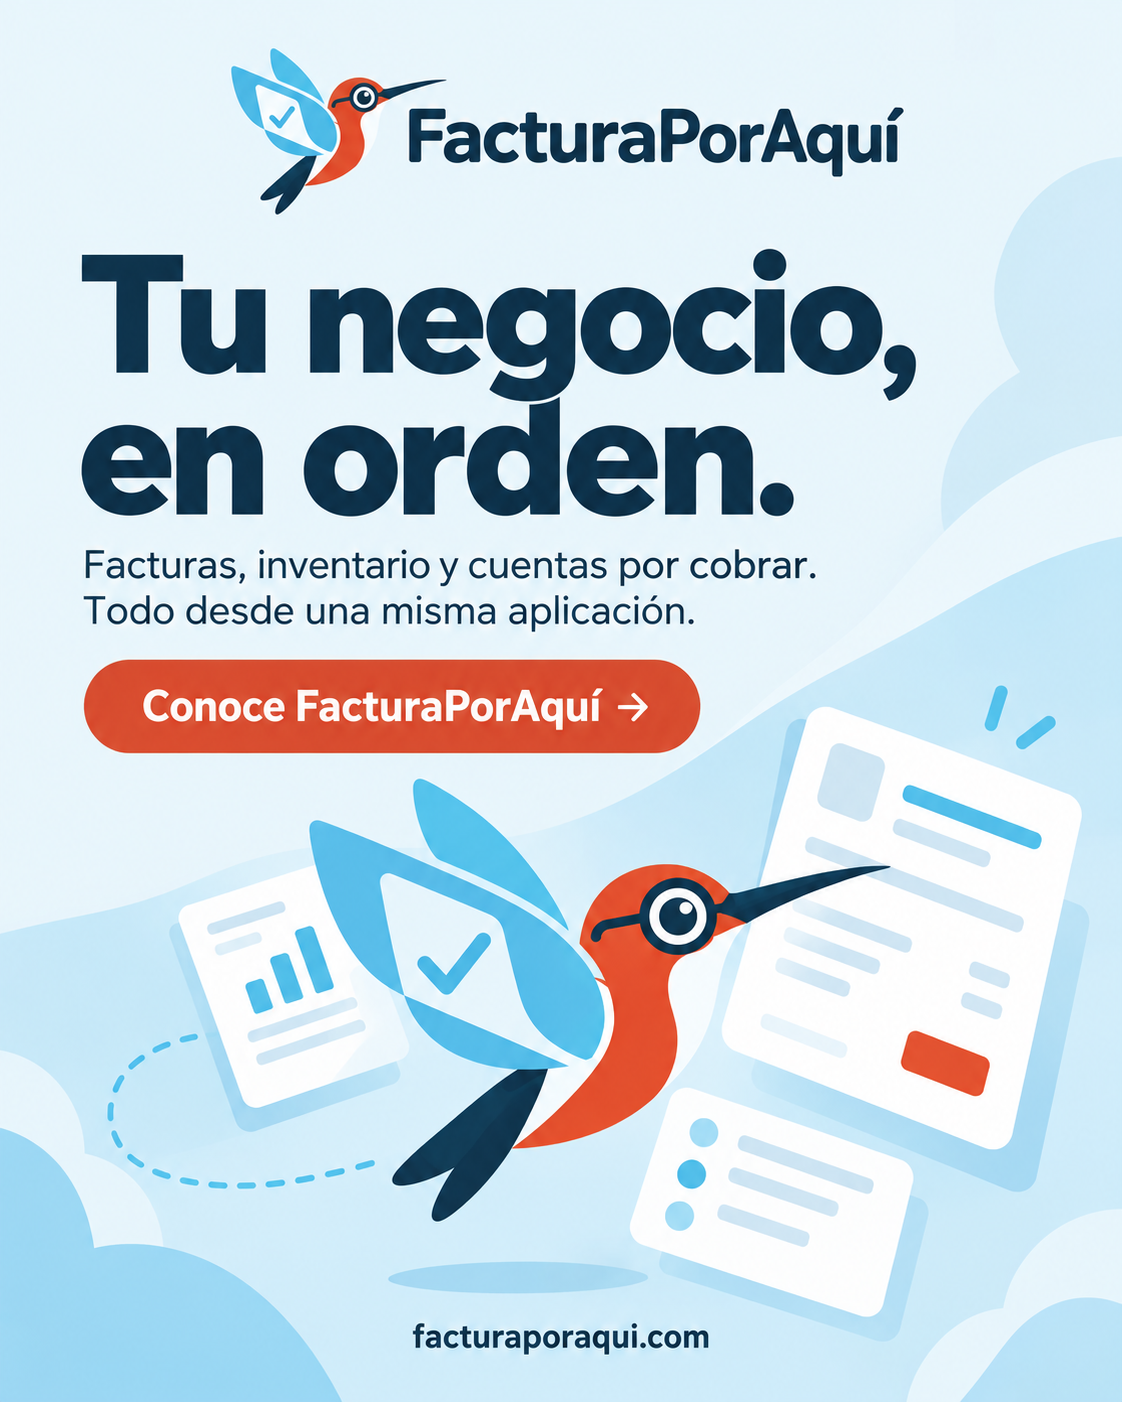
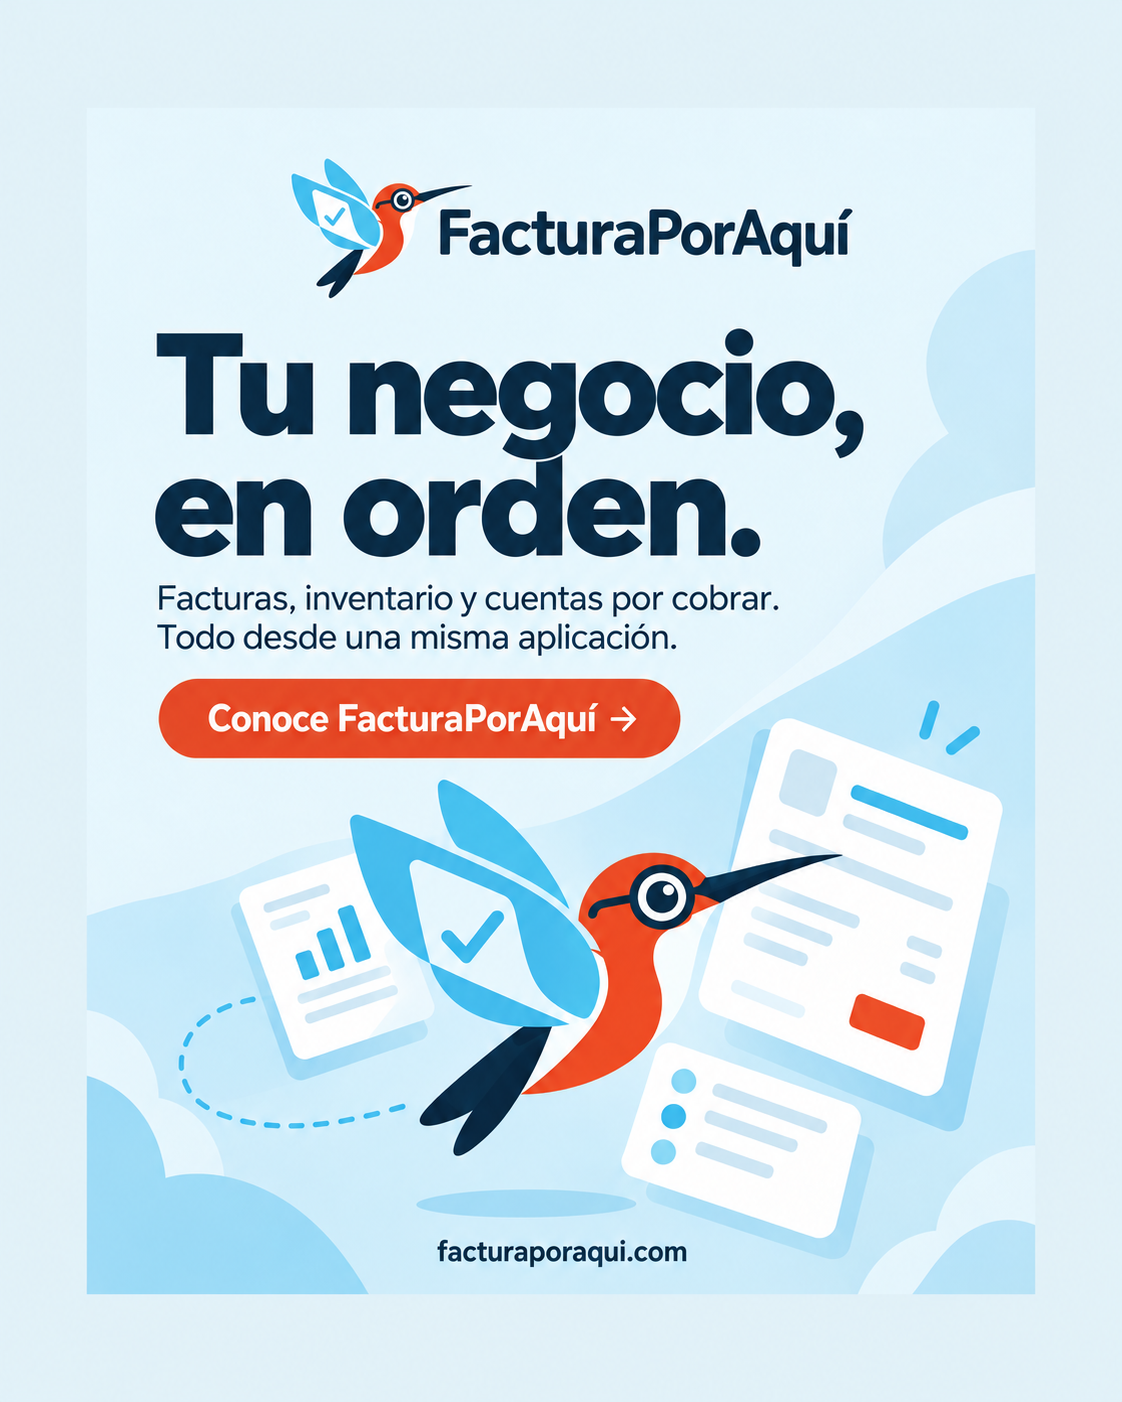
Add safe margins to all social campaign images and grid preview

diff --git a/entregas/facturaporaqui/redes/campana-01/GALERIA.html b/entregas/facturaporaqui/redes/campana-01/GALERIA.html
@@ -1,1 +1,1 @@
-<!doctype html><html lang="es"><meta charset="utf-8"><meta name="viewport" content="width=device-width,initial-scale=1"><title>FacturaPorAquí · Primera campaña</title><style>body{margin:0;background:#e5f1f6;color:#163b50;font:17px/1.5 system-ui,sans-serif}main{max-width:1240px;margin:auto;padding:36px 24px}h1{font-size:38px;margin:8px 0}h2{font-size:28px}p{max-width:800px}.pair{display:grid;grid-template-columns:1fr 1fr;gap:24px;margin:24px 0;align-items:start}article{background:white;border-radius:16px;padding:18px;min-width:0}article img{width:100%;height:auto;display:block;border-radius:10px}a{color:#a8381f;font-weight:650}h3{font-size:19px;margin:8px 0}small{display:block}nav{display:flex;gap:24px;flex-wrap:wrap}@media(max-width:650px){.pair{grid-template-columns:1fr}}</style><main><header><small>FacturaPorAquí · Tu negocio, en orden.</small><h1>Primera campaña en redes</h1><p>10 posts para Facebook e Instagram y 10 historias. Abre una imagen para verla completa o guardarla. Los textos y el orden sugerido están en el documento adjunto. No se ha publicado nada.</p><nav><a href="#posts">Posts</a><a href="#historias">Historias</a><a href="TEXTOS-Y-PUBLICACION.md">Textos y publicación</a></nav></header><h2 id="posts">10 posts · formato 4:5</h2><section class="pair" id="posts-1"><article><h3>01 · Tu negocio, en orden.</h3><a href="posts/post-01.png"><img src="posts/post-01.png" alt="Post 1: Tu negocio, en orden."></a></article><article><h3>02 · ¿Cuánto tiempo pierdes buscando?</h3><a href="posts/post-02.png"><img src="posts/post-02.png" alt="Post 2: ¿Cuánto tiempo pierdes buscando?"></a></article></section><section class="pair" id="posts-3"><article><h3>03 · Tu facturación empieza por aquí.</h3><a href="posts/post-03.png"><img src="posts/post-03.png" alt="Post 3: Tu facturación empieza por aquí."></a></article><article><h3>04 · 1000 documentos. Un año de tranquilidad.</h3><a href="posts/post-04.png"><img src="posts/post-04.png" alt="Post 4: 1000 documentos. Un año de tranquilidad."></a></article></section><section class="pair" id="posts-5"><article><h3>05 · Más movimiento. Sin límite de documentos.</h3><a href="posts/post-05.png"><img src="posts/post-05.png" alt="Post 5: Más movimiento. Sin límite de documentos."></a></article><article><h3>06 · Factura y nota de crédito: cada una con su número.</h3><a href="posts/post-06.png"><img src="posts/post-06.png" alt="Post 6: Factura y nota de crédito: cada una con su número."></a></article></section><section class="pair" id="posts-7"><article><h3>07 · Varias empresas. Una cuenta.</h3><a href="posts/post-07.png"><img src="posts/post-07.png" alt="Post 7: Varias empresas. Una cuenta."></a></article><article><h3>08 · Lo que vendes. Lo que tienes. Lo que te deben.</h3><a href="posts/post-08.png"><img src="posts/post-08.png" alt="Post 8: Lo que vendes. Lo que tienes. Lo que te deben."></a></article></section><section class="pair" id="posts-9"><article><h3>09 · Empieza por ordenar tu inventario.</h3><a href="posts/post-09.png"><img src="posts/post-09.png" alt="Post 9: Empieza por ordenar tu inventario."></a></article><article><h3>10 · Tu próxima factura puede empezar aquí.</h3><a href="posts/post-10.png"><img src="posts/post-10.png" alt="Post 10: Tu próxima factura puede empezar aquí."></a></article></section><h2 id="historias">10 historias · formato 9:16</h2><section class="pair" id="stories-1"><article><h3>01 · Tu negocio merece orden.</h3><a href="historias/historia-01.png"><img src="historias/historia-01.png" alt="Historia 1: Tu negocio merece orden."></a></article><article><h3>02 · Clientes. Productos. Ventas.</h3><a href="historias/historia-02.png"><img src="historias/historia-02.png" alt="Historia 2: Clientes. Productos. Ventas."></a></article></section><section class="pair" id="stories-3"><article><h3>03 · No tienes que configurarlo a ciegas.</h3><a href="historias/historia-03.png"><img src="historias/historia-03.png" alt="Historia 3: No tienes que configurarlo a ciegas."></a></article><article><h3>04 · Plan 1000 $50 al año</h3><a href="historias/historia-04.png"><img src="historias/historia-04.png" alt="Historia 4: Plan 1000 $50 al año"></a></article></section><section class="pair" id="stories-5"><article><h3>05 · Plan ilimitado $85 al año</h3><a href="historias/historia-05.png"><img src="historias/historia-05.png" alt="Historia 5: Plan ilimitado $85 al año"></a></article><article><h3>06 · ¿Vienes de otro sistema?</h3><a href="historias/historia-06.png"><img src="historias/historia-06.png" alt="Historia 6: ¿Vienes de otro sistema?"></a></article></section><section class="pair" id="stories-7"><article><h3>07 · ¿Gestionas más de una empresa?</h3><a href="historias/historia-07.png"><img src="historias/historia-07.png" alt="Historia 7: ¿Gestionas más de una empresa?"></a></article><article><h3>08 · ¿Qué necesita ordenar tu negocio?</h3><a href="historias/historia-08.png"><img src="historias/historia-08.png" alt="Historia 8: ¿Qué necesita ordenar tu negocio?"></a></article></section><section class="pair" id="stories-9"><article><h3>09 · Empieza con inventario gratuito.</h3><a href="historias/historia-09.png"><img src="historias/historia-09.png" alt="Historia 9: Empieza con inventario gratuito."></a></article><article><h3>10 · ¿Listo para dar el primer paso?</h3><a href="historias/historia-10.png"><img src="historias/historia-10.png" alt="Historia 10: ¿Listo para dar el primer paso?"></a></article></section></main></html>
+<!doctype html><html lang="es"><meta charset="utf-8"><meta name="viewport" content="width=device-width,initial-scale=1"><title>FacturaPorAquí · Primera campaña</title><style>body{margin:0;background:#e5f1f6;color:#163b50;font:17px/1.5 system-ui,sans-serif}main{max-width:1240px;margin:auto;padding:36px 24px}h1{font-size:38px;margin:8px 0}h2{font-size:28px}p{max-width:800px}.pair{display:grid;grid-template-columns:1fr 1fr;gap:24px;margin:24px 0;align-items:start}article{background:white;border-radius:16px;padding:18px;min-width:0}article img{width:100%;height:auto;display:block;border-radius:10px}a{color:#a8381f;font-weight:650}h3{font-size:19px;margin:8px 0}small{display:block}nav{display:flex;gap:24px;flex-wrap:wrap}@media(max-width:650px){.pair{grid-template-columns:1fr}}.vista-grid [id^="posts-"] img{aspect-ratio:3/4;object-fit:cover}button{font:inherit;background:#ca462c;color:white;border:0;border-radius:8px;padding:10px 16px;cursor:pointer}</style><main><header><small>FacturaPorAquí · Tu negocio, en orden.</small><h1>Primera campaña en redes</h1><p>10 posts para Facebook e Instagram y 10 historias. Abre una imagen para verla completa o guardarla. Los textos y el orden sugerido están en el documento adjunto. No se ha publicado nada.</p><nav><a href="#posts">Posts</a><a href="#historias">Historias</a><a href="TEXTOS-Y-PUBLICACION.md">Textos y publicación</a></nav></header><p><button type="button" onclick="document.body.classList.toggle('vista-grid');this.setAttribute('aria-pressed',document.body.classList.contains('vista-grid'))" aria-pressed="false">Alternar miniatura 3:4 / imagen completa</button></p><p>Vista de recorte orientativa; revisa también la miniatura en Instagram antes de publicar.</p><h2 id="posts">10 posts · formato 4:5</h2><section class="pair" id="posts-1"><article><h3>01 · Tu negocio, en orden.</h3><a href="posts/post-01.png"><img src="posts/post-01.png" alt="Post 1: Tu negocio, en orden."></a></article><article><h3>02 · ¿Cuánto tiempo pierdes buscando?</h3><a href="posts/post-02.png"><img src="posts/post-02.png" alt="Post 2: ¿Cuánto tiempo pierdes buscando?"></a></article></section><section class="pair" id="posts-3"><article><h3>03 · Tu facturación empieza por aquí.</h3><a href="posts/post-03.png"><img src="posts/post-03.png" alt="Post 3: Tu facturación empieza por aquí."></a></article><article><h3>04 · 1000 documentos. Un año de tranquilidad.</h3><a href="posts/post-04.png"><img src="posts/post-04.png" alt="Post 4: 1000 documentos. Un año de tranquilidad."></a></article></section><section class="pair" id="posts-5"><article><h3>05 · Más movimiento. Sin límite de documentos.</h3><a href="posts/post-05.png"><img src="posts/post-05.png" alt="Post 5: Más movimiento. Sin límite de documentos."></a></article><article><h3>06 · Factura y nota de crédito: cada una con su número.</h3><a href="posts/post-06.png"><img src="posts/post-06.png" alt="Post 6: Factura y nota de crédito: cada una con su número."></a></article></section><section class="pair" id="posts-7"><article><h3>07 · Varias empresas. Una cuenta.</h3><a href="posts/post-07.png"><img src="posts/post-07.png" alt="Post 7: Varias empresas. Una cuenta."></a></article><article><h3>08 · Lo que vendes. Lo que tienes. Lo que te deben.</h3><a href="posts/post-08.png"><img src="posts/post-08.png" alt="Post 8: Lo que vendes. Lo que tienes. Lo que te deben."></a></article></section><section class="pair" id="posts-9"><article><h3>09 · Empieza por ordenar tu inventario.</h3><a href="posts/post-09.png"><img src="posts/post-09.png" alt="Post 9: Empieza por ordenar tu inventario."></a></article><article><h3>10 · Tu próxima factura puede empezar aquí.</h3><a href="posts/post-10.png"><img src="posts/post-10.png" alt="Post 10: Tu próxima factura puede empezar aquí."></a></article></section><h2 id="historias">10 historias · formato 9:16</h2><section class="pair" id="stories-1"><article><h3>01 · Tu negocio merece orden.</h3><a href="historias/historia-01.png"><img src="historias/historia-01.png" alt="Historia 1: Tu negocio merece orden."></a></article><article><h3>02 · Clientes. Productos. Ventas.</h3><a href="historias/historia-02.png"><img src="historias/historia-02.png" alt="Historia 2: Clientes. Productos. Ventas."></a></article></section><section class="pair" id="stories-3"><article><h3>03 · No tienes que configurarlo a ciegas.</h3><a href="historias/historia-03.png"><img src="historias/historia-03.png" alt="Historia 3: No tienes que configurarlo a ciegas."></a></article><article><h3>04 · Plan 1000 $50 al año</h3><a href="historias/historia-04.png"><img src="historias/historia-04.png" alt="Historia 4: Plan 1000 $50 al año"></a></article></section><section class="pair" id="stories-5"><article><h3>05 · Plan ilimitado $85 al año</h3><a href="historias/historia-05.png"><img src="historias/historia-05.png" alt="Historia 5: Plan ilimitado $85 al año"></a></article><article><h3>06 · ¿Vienes de otro sistema?</h3><a href="historias/historia-06.png"><img src="historias/historia-06.png" alt="Historia 6: ¿Vienes de otro sistema?"></a></article></section><section class="pair" id="stories-7"><article><h3>07 · ¿Gestionas más de una empresa?</h3><a href="historias/historia-07.png"><img src="historias/historia-07.png" alt="Historia 7: ¿Gestionas más de una empresa?"></a></article><article><h3>08 · ¿Qué necesita ordenar tu negocio?</h3><a href="historias/historia-08.png"><img src="historias/historia-08.png" alt="Historia 8: ¿Qué necesita ordenar tu negocio?"></a></article></section><section class="pair" id="stories-9"><article><h3>09 · Empieza con inventario gratuito.</h3><a href="historias/historia-09.png"><img src="historias/historia-09.png" alt="Historia 9: Empieza con inventario gratuito."></a></article><article><h3>10 · ¿Listo para dar el primer paso?</h3><a href="historias/historia-10.png"><img src="historias/historia-10.png" alt="Historia 10: ¿Listo para dar el primer paso?"></a></article></section></main></html>

diff --git a/entregas/facturaporaqui/RESULTADOS-FRONTEND.md b/entregas/facturaporaqui/RESULTADOS-FRONTEND.md
@@ -702,3 +702,12 @@ Validación Chromium con usuario/empresa ficticios locales, plan ilimitado asign
 Node --check y git diff --check sin incidencias. Suite SQLite ejecutada completa; resultado final registrado debajo. No pagos ni emisiones reales, modelos/migraciones/vistas/API/.env/SRI sin cambios. No pruebas de dispositivo físico, lector de pantalla ni de guardado. Formularios de compras/notas de crédito probados en su estado inicial; solo venta ejercitada con línea y cálculo. Las tablas de búsqueda en modales conservan desplazamiento local cuando sea necesario.
 
 Resultado final SQLite: **214 aprobadas, 5 omitidas** exclusivas de PostgreSQL, en 19,78 s.
+
+
+## 13/10/2026 (Ecuador) — márgenes de piezas de redes
+
+Petición: margen 60 px arriba/abajo/izquierda/derecha y actualización en entregas/facturaporaqui/redes. Se corrigieron las 20 imágenes mediante edición de imagen con referencia a cada original; se reemplazaron `campana-01/posts/post-01…10.png` y `historias/historia-01…10.png`, manteniendo contenidos comerciales y marca. La zona segura se implementó como mínimo de 60 px para contenido; algunas composiciones dejan más espacio, no una banda matemáticamente idéntica de exactamente 60 px.
+
+Actualizados GALERIA.html (alternar imagen completa/miniatura orientativa3:4), README.md y ARCHIVOS.json (dimensiones, hash y margen de contenido oscuro medido). Regenerados ZIP locales `/workspace/facturaporaqui-redes-01.zip` y `/workspace/facturaporaqui-redes-01-margen60.zip`; el directorio temporal de preparación propio se retiró después de copiar, sin duplicar campaña. HANDOFF y AGENTS registran la regla.
+
+Validación: inspección visual de 20 PNG en pares; textos legibles, planes50/85 al año con IVA, numeración Último125/Próximo126 conservada. Lectura de píxeles confirma contenido oscuro (luminancia<140, indicador de texto/marca, no OCR) a >=60px de los cuatro bordes en todas. Esa medición se complementa con revisión visual; no certifica una banda uniforme de fondo. Chromium: 20 imágenes cargadas y alternancia de vista grid correcta. ZIP íntegros con20 PNG. No pruebas Django necesarias: no código de aplicación modificado. No se afirma verificación directa en una cuenta Instagram; revisar su vista previa antes de publicar. Sin publicación externa ni despliegue.

diff --git a/entregas/facturaporaqui/HANDOFF.md b/entregas/facturaporaqui/HANDOFF.md
@@ -1,5 +1,18 @@
 # Handoff compartido — frontend
 
+## Estado actual — encuadre de redes actualizado (Codex, 13/10 Ecuador)
+
+Actualizadas las 20 imágenes en la misma ruta `entregas/facturaporaqui/redes/campana-01/`: zona segura mínima de 60 px en los cuatro lados para textos y marca. Conservados precios y captions. Galería con opción de miniatura orientativa 3:4, manifiesto y ZIP actualizados. No aplicación ni publicación de redes modificadas.
+
+## Pendiente para Codex — margen de redes
+
+- [x] Ajustar los 10 posts y 10 historias con la zona segura solicitada.
+- [x] Verificar visualmente, actualizar galería/manifiesto y regenerar ZIP.
+
+## Notas entre agentes — archivos de redes
+
+Claude: solo archivos gráficos/documentación; no necesitan despliegue de Django. Ruta de campaña sin cambios. Revisar la miniatura en Instagram al publicar; una zona segura de 60 px no garantiza todos los recortes de plataformas. La exportación conserva separación mayor en algunas piezas, sin exigir un borde idéntico de 60 px en el fondo.
+
 ## Estado actual — formularios responsive (Codex, 11/10 Ecuador)
 
 Base `9835933`, rama frontend/etapa3. Formularios compartidos adaptados: campos y Select2, tablas de líneas como fichas etiquetadas en móvil, totales, botones y modal. Se mantienen controles y eventos originales; calculadora y backend intactos. Guardado/emisión no ejecutados. No desplegado.

diff --git a/entregas/facturaporaqui/redes/campana-01/README.md b/entregas/facturaporaqui/redes/campana-01/README.md
@@ -22,3 +22,7 @@ Para publicar: lee **TEXTOS-Y-PUBLICACION.md**. Incluye los diez textos, hashtag
 Las ilustraciones representan conceptos; no son capturas de la aplicación. Las imágenes se generaron con referencia al logo original. Texto y datos comerciales revisados. No se han publicado en redes ni creado anuncios pagados.
 
 El dominio es facturaporaqui.com. No se inventó un WhatsApp, correo ni perfil social. Para las historias, agrega manualmente el sticker de enlace o una herramienta de mensaje/pregunta de la plataforma.
+
+## Encuadre revisado
+
+Versión con zona segura de al menos 60 px en los cuatro lados para texto y marca. Conservar las proporciones y revisar la miniatura del perfil antes de publicar: el grid y el post completo pueden usar recortes distintos. Las historias siguen teniendo espacio adicional para interfaz. No se cambian precios ni captions.

diff --git a/entregas/facturaporaqui/AGENTS.md b/entregas/facturaporaqui/AGENTS.md
@@ -8,3 +8,5 @@
 - Nunca registrar secretos en documentación, capturas ni commits. Ocultar un campo no corrige la exposición de su valor en HTML: coordinar esto con backend.
 
 - Formularios compartidos usan `.fp-responsive-form`. En móvil las líneas de documento se presentan con `.fp-mobile-lines` y `data-label`, conservando las celdas e inputs originales (sin clones) para no romper eventos ni cálculos. Verificar filas con productos y edición de cantidad, además del formulario vacío.
+
+- Material de redes: dejar una zona segura mínima de 60 px arriba, abajo, izquierda y derecha para texto y marca; comprobar miniatura y formato completo. Las historias requieren también espacio para la interfaz de la plataforma.
